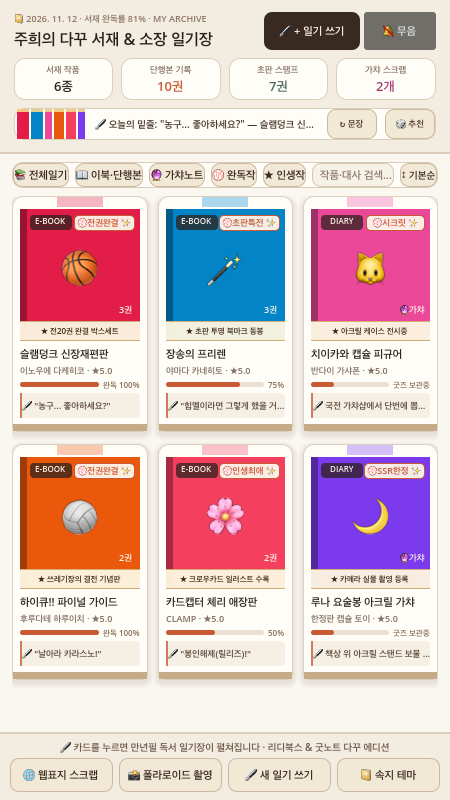
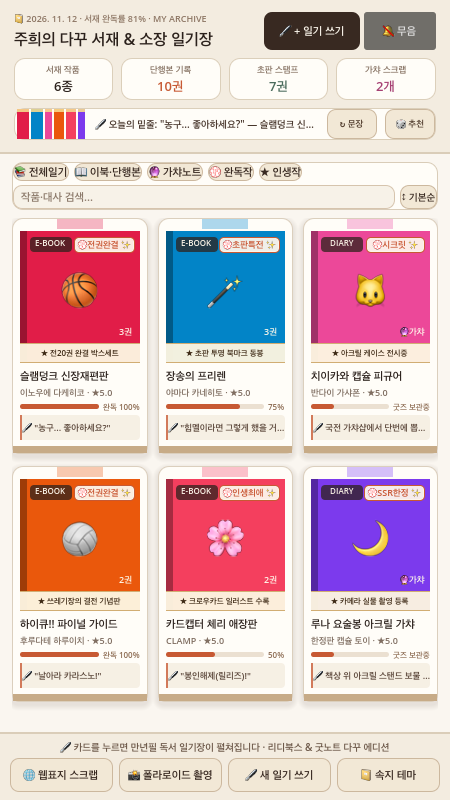
feat(game02): Sprint 35 FilterBar HFlowContainer wrap & possession state tracker

Changed region(s): [[0.0, 0.1875, 0.9956, 0.875]]

diff --git a/game02/index.html b/game02/index.html
@@ -293,6 +293,7 @@
                             <button id="reread-cycle-btn" onclick="incrementRereadCount()" class="px-2 py-1 rounded-lg bg-[#efe7da] hover:bg-[#e2d6c5] text-[#2c221e] text-[10px] font-bold cursor-pointer">🔁 1회독</button>
                             <button id="duplicate-cycle-btn" onclick="incrementDuplicateCount()" class="px-2 py-1 rounded-lg bg-[#efe7da] hover:bg-[#e2d6c5] text-[#2c221e] text-[10px] font-bold cursor-pointer">👯 ×1</button>
                             <button id="signature-cycle-btn" onclick="cycleDiarySignature()" class="px-2 py-1 rounded-lg bg-[#efe7da] hover:bg-[#e2d6c5] text-[#2c221e] text-[10px] font-bold cursor-pointer">✍ 주희의 서재</button>
+                            <button id="possession-cycle-btn" onclick="cyclePossessionState()" class="px-2 py-1 rounded-lg bg-[#efe7da] hover:bg-[#e2d6c5] text-[#2c221e] text-[10px] font-bold cursor-pointer">📦 소장중</button>
                             <button onclick="copyBookQuoteCard()" class="px-2 py-1 rounded-lg bg-[#efe7da] hover:bg-[#e2d6c5] text-[#2c221e] text-[10px] font-bold cursor-pointer">💌 감상 카드 공유</button>
                             <button onclick="closeJournalModal()" class="w-7 h-7 rounded-full bg-[#efe7da] hover:bg-[#e2d6c5] text-[#5c4938] text-xs font-bold cursor-pointer">✕</button>
                         </div>
@@ -617,6 +618,8 @@
             if (dupBtn) dupBtn.textContent = `👯 ×${item.duplicate_count || 1}`;
             const sigBtn = document.getElementById('signature-cycle-btn');
             if (sigBtn) sigBtn.textContent = item.diary_signature || '✍ 주희의 서재';
+            const posBtn = document.getElementById('possession-cycle-btn');
+            if (posBtn) posBtn.textContent = item.possession_state || '📦 소장중';
             document.getElementById('diary-stamp').textContent = `💮 ${item.stamp} ${sticker} [${item.reading_mood || '🥰 힐링'} · ${rTier} · ${loc}]`;
             document.getElementById('journal-modal').classList.remove('hidden');
         }
@@ -661,6 +664,17 @@
             item.diary_signature = SIGNATURE_PRESETS[(idx + 1) % SIGNATURE_PRESETS.length];
             const btn = document.getElementById('signature-cycle-btn');
             if (btn) btn.textContent = item.diary_signature;
+        }
+
+        const POSSESSION_PRESETS = ["📦 소장중", "🛒 예약중", "🚚 배송중", "✨ 전시중"];
+        function cyclePossessionState() {
+            const item = ITEMS.find(x => x.id === activeId);
+            if (!item) return;
+            const cur = item.possession_state || "📦 소장중";
+            const idx = POSSESSION_PRESETS.indexOf(cur);
+            item.possession_state = POSSESSION_PRESETS[(idx + 1) % POSSESSION_PRESETS.length];
+            const btn = document.getElementById('possession-cycle-btn');
+            if (btn) btn.textContent = item.possession_state;
         }
 
         const SOURCE_PRESETS = ["🏪 오프라인 서점", "🇯🇵 직구/해외", "🎁 선물", "🎪 팝업/행사", "📦 온라인 서점"];

diff --git a/game02/SPRINT_LOG.md b/game02/SPRINT_LOG.md
@@ -5,6 +5,22 @@
 
 ---
 
+## 🚀 [Sprint 35] 메인 `FilterBar` `HFlowContainer` 반응형 줄바꿈 개선 & 소장품 배송·보유 상태 트래커(`📦 소장중` / `cycle_possession_state`)
+- **시각**: 2026-11-15 11:08 KST
+- **1. 다꾸러 3인 VOC (수집러 A · 가챠러 B · 미니멀러 C)**
+  - **만년필 다꾸러 A**: *"메인 화면 상단의 필터 바(`FilterBar`) 오른쪽 끝 `↕ 기본순` 버튼이 화면 끝에서 살짝 잘려 보였는데, `HFlowContainer`로 깔끔하게 줄바꿈되게 고쳐주세요!"*
+  - **가챠 수집러 B**: *"직구나 예약 구매한 가챠·만화책이 현재 '소장중/예약중/배송중/전시중' 중 어떤 상태인지 모달에서 원터치로 기록할 수 있으면 배송 관리가 편할 것 같아요!"*
+  - **미니멀 수집러 C**: *"필터 탭과 검색창, 정렬 버튼이 두 줄로 깔끔하게 정돈되면 540px 모바일 화면에서도 여백과 시인성이 훨씬 좋아집니다."*
+- **2. 기획 & UI/UX & Godot 4.6 개발 내역**
+  - **메인 `FilterBar` `HFlowContainer` 반응형 줄바꿈(`main.tscn`)**: `FilterBar/HBox`를 `HBoxContainer`에서 `HFlowContainer`(`h_separation=5`, `v_separation=4`)로 전환하고 `SearchInput` 최소 너비(`140px`)를 확보해 `↕ 기본순` 우측 클리핑 완전 해소
+  - **소장품 배송·보유 상태 트래커(`PossessionBtn` / `cycle_possession_state`)**: `collection_item.gd`에 `possession_state` 추가 및 `archive_state.gd` JSON 영구 저장/복원 연동, `detail_modal.tscn` `StampRow`에 `📦 소장중` 원터치 순환 버튼(`📦 소장중`, `🛒 예약중`, `🚚 배송중`, `✨ 전시중`) 배치
+  - **HTML 인터랙티브 목업 동기화**: `game02/index.html`에 `#possession-cycle-btn` / `cyclePossessionState()` 동기화 완료
+- **3. TDD & QA 검증**
+  - `tests/test_main_integration.gd`에 Sprint 35 `FilterBar HFlowContainer` 및 배송·보유 상태 순환 검증 추가 → 3개 헤드리스 테스트 스위트 전수 100% PASS (스크립트 에러 0건)
+  - Metal 렌더러 최신 스크린샷(`godot_app_screen.png`, `godot_modal_screen.png`) 캡처 완료
+
+---
+
 ## 🚀 [Sprint 34] `InkRow` `HFlowContainer` 반응형 줄바꿈 개선 · 일기장 서명 스탬프(`✍ 주희의 서재`) · 서재 총 재독 횟수 브리핑(`get_total_rereads`)
 - **시각**: 2026-11-14 15:24 KST
 - **1. 다꾸러 3인 VOC (수집러 A · 가챠러 B · 미니멀러 C)**
